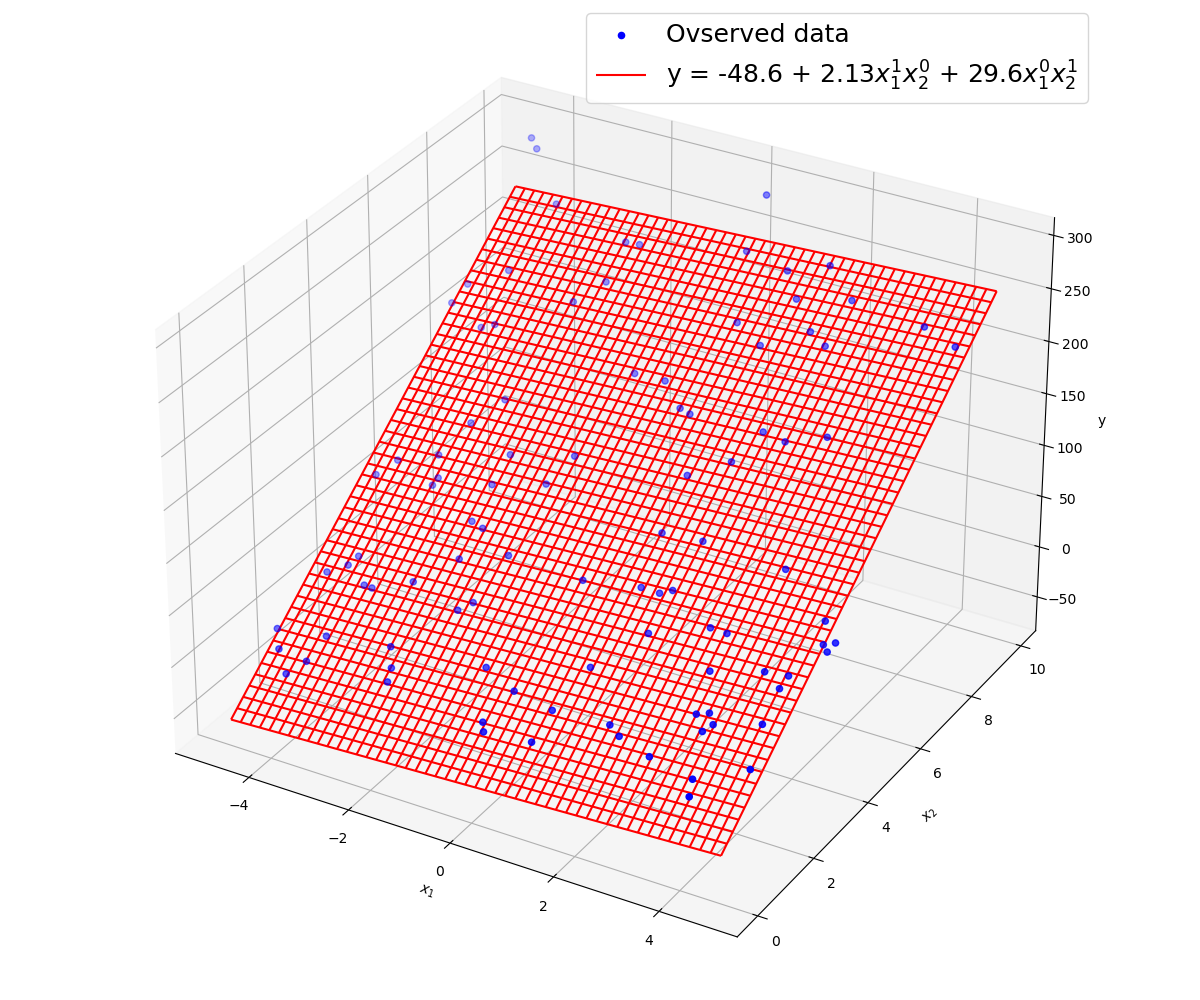
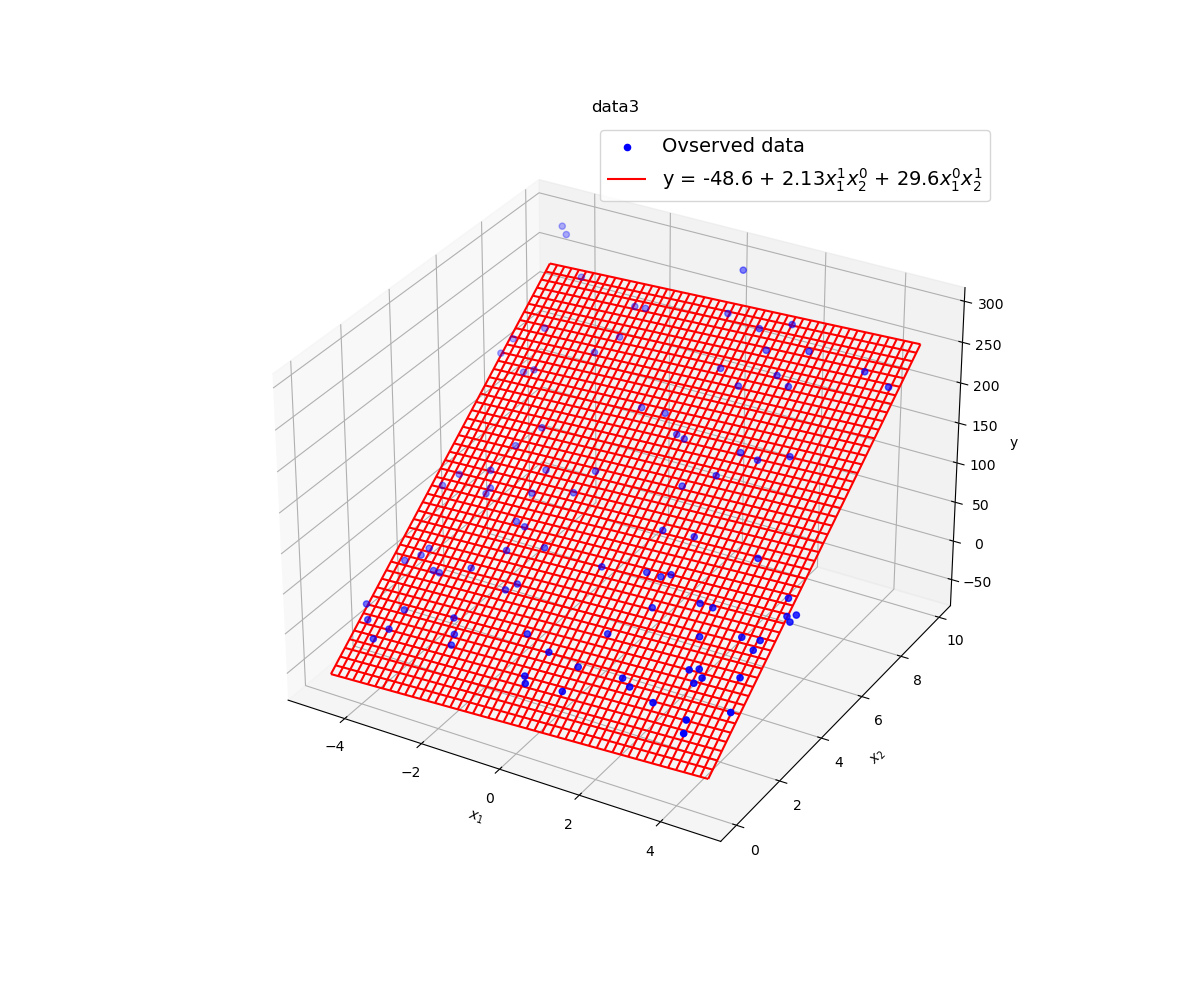
3d figure title

diff --git a/ex3/sawada/main.py b/ex3/sawada/main.py
@@ -85,9 +85,8 @@ def regression_3d(data, title, dim=1,
 
     coefficient = linear_regression(data_regression, regularize, reg_coef)
     # plot initialization
-    fig, ax = plt.subplots(figsize=(12, 10), subplot_kw=dict(projection='3d'))
-    ax = Axes3D(fig, auto_add_to_figure=False)
-    fig.add_axes(ax)
+    fig = plt.figure(figsize=(12, 10))
+    ax = fig.add_subplot(111, projection='3d')
     fig.subplots_adjust(hspace=0.6)
 
     ax.set_title(title)
@@ -107,7 +106,7 @@ def regression_3d(data, title, dim=1,
                 + f"$x_1^{i + 1 - j}x_2^{j}$"
             col += 1
     ax.plot_wireframe(x1, x2, y_reg, color="red", label=label)
-    ax.legend(fontsize=18)
+    ax.legend(fontsize=14)
     plt.savefig(f"{title}_{dim}th_polynomial.png")
     plt.show()
 
